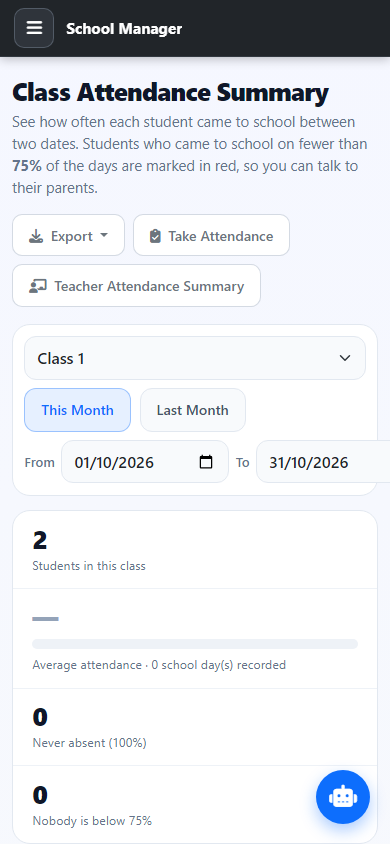
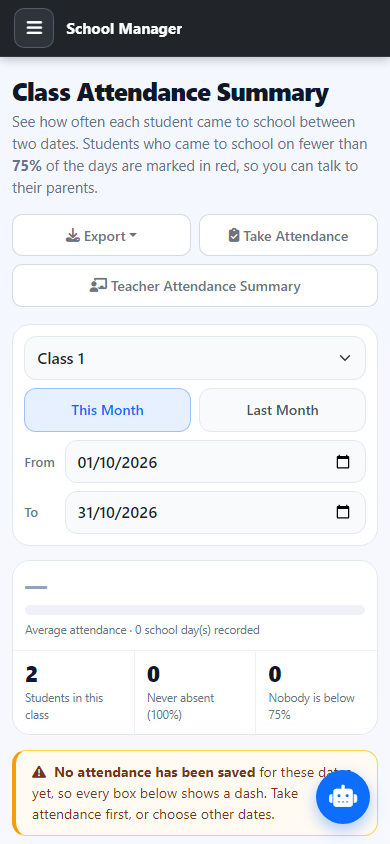
Update application code and fixes

diff --git a/app/templates/attendance_summary.html b/app/templates/attendance_summary.html
@@ -110,15 +110,60 @@
         .as-ribbon .as-stat:nth-child(3) { border-left: 0; border-top: 1px solid #eef2f7; }
         .as-ribbon .as-stat:nth-child(4) { border-top: 1px solid #eef2f7; }
     }
+    /* phones: page chrome (header, filters, summary) stacks and fits the screen */
     @media (max-width: 767.98px) {
-        .as-ribbon { grid-template-columns: 1fr; }
-        .as-stat + .as-stat { border-left: 0 !important; border-top: 1px solid #eef2f7; }
+        /* header buttons: a tidy two-column grid instead of ragged wrapping */
+        .as-tools { width: 100%; display: grid; grid-template-columns: 1fr 1fr; gap: 0.5rem; }
+        .as-tools > .dropdown > .btn, .as-tools > .btn { width: 100%; min-height: 2.6rem; display: inline-flex; align-items: center; justify-content: center; }
+        .as-tools > .btn:last-child:nth-child(odd) { grid-column: 1 / -1; }
         .as-filters .form-select, .as-filters .form-control[type=date] { flex: 1 1 100%; max-width: none; }
-        .as-range { flex: 1 1 100%; }
-        .as-range .form-control { flex: 1; }
+        .as-chip { flex: 1 1 0; justify-content: center; padding: 0 0.6rem; }
+        /* From / To: one line each (two date boxes side by side pushed the whole page sideways) */
+        .as-range { flex: 1 1 100%; display: grid; grid-template-columns: auto minmax(0, 1fr); align-items: center; gap: 0.45rem 0.6rem; }
+        .as-filters .as-range .form-control[type=date] { width: 100%; min-width: 0; }
+        /* 16px text in boxes: stops iPhones zooming the page when a box is tapped */
+        .as-filters .form-select, .as-filters .form-control, .as-search input { font-size: 16px; }
+        #asSearch { text-overflow: ellipsis; }
         .as-toolbar .as-tabs { width: 100%; }
         .as-toolbar .as-tabs button { flex: 1; padding: 0.6rem 0.4rem; }
-        .as-table .as-sticky { min-width: 9.5rem; }
+        /* summary: the average on top, then three small boxes in one line (was four boxes in a tall stack) */
+        .as-ribbon { grid-template-columns: repeat(3, minmax(0, 1fr)); gap: 1px; background: #eef2f7; }
+        .as-stat { background: #fff; padding: 0.7rem 0.75rem; }
+        .as-stat + .as-stat { border-left: 0 !important; border-top: 0; }
+        .as-ribbon .as-stat:nth-child(n) { border-top: 0; }
+        .as-ribbon .as-stat:nth-child(2) { grid-column: 1 / -1; order: -1; }
+        .as-ribbon .as-stat.is-risk { background: #fff5f5; border-left: 4px solid #dc2626 !important; }
+        .as-ribbon .as-stat.is-clear { background: #f3fbf6; border-left: 4px solid #16a34a !important; }
+        .as-num { font-size: 1.4rem; }
+        .as-stat .as-lab { font-size: 0.72rem; }
+        html[dir="rtl"] .as-ribbon .as-stat.is-risk { border-left: 0 !important; border-right: 4px solid #dc2626 !important; }
+        html[dir="rtl"] .as-ribbon .as-stat.is-clear { border-left: 0 !important; border-right: 4px solid #16a34a !important; }
+    }
+    /* phones and tablets: every student becomes one card: name + percentage, the four counts, then a small box for each day
+       (a 30-day table is 2000px wide, so below 1024px it cannot be read by scrolling sideways) */
+    @media screen and (max-width: 1023.98px) {
+        .as-scroll { overflow: visible; }
+        .as-table, .as-table tbody { display: block; width: 100%; }
+        .as-table thead { display: none; }
+        /* 28 equal columns so one row can hold 1 name + percentage, 4 counts (7 columns each) or 7 days (4 columns each) */
+        .as-table tbody tr { display: grid; grid-template-columns: repeat(28, minmax(0, 1fr)); align-items: start; padding: 0.85rem 0.9rem; border-bottom: 1px solid #f1f5f9; background: #fff; }
+        .as-table tbody tr[data-risk="1"] { background: #fff8f8; box-shadow: inset 4px 0 0 #dc2626; }
+        html[dir="rtl"] .as-table tbody tr[data-risk="1"] { box-shadow: inset -4px 0 0 #dc2626; }
+        .as-table tbody tr:hover td { background: transparent; }
+        .as-table tbody td { display: block; padding: 0; border: 0; background: transparent; text-align: left; min-width: 0; }
+        html[dir="rtl"] .as-table tbody td { text-align: right; }
+        .as-table .as-grp { border-left: 0; }
+        .as-table .as-sticky, .as-table tbody tr[data-risk="1"] td.as-sticky { position: static; min-width: 0; grid-column: 1 / 19; box-shadow: none; }
+        .as-table .as-c-rate { grid-column: 19 / 29; justify-self: end; }
+        .as-table .as-c-n { grid-column: span 7; margin-top: 0.65rem; padding-top: 0.5rem; border-top: 1px dashed #e2e8f0; }
+        .as-table .as-c-n::before { content: attr(data-label); display: block; font-size: 0.66rem; font-weight: 700; color: #64748b; text-transform: uppercase; letter-spacing: 0.03em; margin-bottom: 0.1rem; }
+        .as-table .as-c-day { grid-column: span 4; margin-top: 0.5rem; padding: 0 0.12rem; text-align: center; white-space: normal; }
+        .as-table .as-c-day::before { content: attr(data-mon) " " attr(data-day) "\A" attr(data-dow); white-space: pre-line; display: block; font-size: 0.62rem; line-height: 1.15; color: #94a3b8; margin-bottom: 0.15rem; }
+        .as-table .as-c-day .as-day { display: block; min-width: 0; white-space: normal; font-size: 0.7rem; padding: 0.22rem 0.1rem; }
+    }
+    /* wide cards (big phones turned sideways, tablets): 14 day boxes per line instead of 7 */
+    @media screen and (min-width: 576px) and (max-width: 1023.98px) {
+        .as-table .as-c-day { grid-column: span 2; }
     }
     @media print {
         .no-print { display: none !important; }
@@ -262,21 +307,21 @@
                         <div class="as-who-name"><span class="as-roll">{{ row.student.roll_number }}</span>{{ row.student.student_name }}</div>
                         <div class="as-who-sub">{% if whole_school %}{{ class_names.get(row.student.class_id, '—') }}{% if row.student.father_name %} &middot; {% endif %}{% endif %}{{ row.student.father_name or '' }}</div>
                     </td>
-                    <td class="as-grp">
+                    <td class="as-grp as-c-rate">
                         {% if taken %}
                         <span class="as-rate {{ tone }}" {% if tone == 'r' %}title="Attendance below 75% — needs attention"{% endif %}>{% if tone == 'r' %}<i class="fas fa-exclamation-circle me-1"></i>{% endif %}{{ pct }}%</span>
                         {% else %}
                         <span class="as-rate n">—</span>
                         {% endif %}
                     </td>
-                    <td><span class="as-cnt {% if not row.p_count %}zero{% endif %}">{{ row.p_count }}</span></td>
-                    <td><span class="as-cnt {% if not row.a_count %}zero{% endif %}">{{ row.a_count }}</span></td>
-                    <td><span class="as-cnt {% if not row.l_count %}zero{% endif %}">{{ row.l_count }}{% if row.total_late_minutes %}<small>{{ row.total_late_minutes }} min</small>{% endif %}</span></td>
-                    <td><span class="as-cnt {% if not n_leave %}zero{% endif %}">{{ n_leave }}</span></td>
+                    <td class="as-c-n" data-label="Present"><span class="as-cnt {% if not row.p_count %}zero{% endif %}">{{ row.p_count }}</span></td>
+                    <td class="as-c-n" data-label="Absent"><span class="as-cnt {% if not row.a_count %}zero{% endif %}">{{ row.a_count }}</span></td>
+                    <td class="as-c-n" data-label="Late"><span class="as-cnt {% if not row.l_count %}zero{% endif %}">{{ row.l_count }}{% if row.total_late_minutes %}<small>{{ row.total_late_minutes }} min</small>{% endif %}</span></td>
+                    <td class="as-c-n" data-label="Leave"><span class="as-cnt {% if not n_leave %}zero{% endif %}">{{ n_leave }}</span></td>
                     {% for d in dates_list %}
                     {% set status = row.daily_status.get(d, '—') %}
                     {% set late_minutes = row.daily_late_minutes.get(d) %}
-                    <td class="text-nowrap {% if loop.first %}as-grp{% endif %}">
+                    <td class="text-nowrap as-c-day {% if loop.first %}as-grp{% endif %}" data-day="{{ d.day }}" data-dow="{{ d.strftime('%a') }}"{% if loop.first or dates_list[loop.index0 - 1].month != d.month %} data-mon="{{ d.strftime('%b') }}"{% endif %}>
                         {% if status == 'Late' and late_minutes is not none %}
                         <span class="as-day l" title="Late arrival: {{ late_minutes }} minutes">L · {{ late_minutes }}m</span>
                         {% elif status == 'Present' %}<span class="as-day p" title="Present">P</span>

diff --git a/tests/test_attendance_summary_mobile.py b/tests/test_attendance_summary_mobile.py
@@ -1,0 +1,105 @@
+"""Attendance Summary on phones and tablets.
+
+Same HTML for every screen size: a 30-day register is ~2000px wide, so below
+1024px every student becomes one card (name + percentage, the four counts, one
+small box per day). These tests check the pieces that layout needs and that no
+number, box or button went missing."""
+
+from datetime import date
+
+from app.database import db
+from app.models import AttendanceModel, SchoolSettings
+
+FRIDAY = date(2026, 10, 30)
+MONDAY = date(2026, 11, 2)      # the next month: the card must say which month the boxes belong to
+
+
+def _school():
+    settings = SchoolSettings.query.first() or SchoolSettings()
+    db.session.add(settings)
+    settings.school_start_time = '08:30'
+    settings.attendance_grace_minutes = 0
+    settings.weekend_off = True
+    db.session.commit()
+
+
+def _mark(student_id, class_id, day, status, minutes=None):
+    db.session.add(AttendanceModel(date=day, target_type='student', target_id=student_id,
+                                   class_id=class_id, status=status, late_minutes=minutes))
+
+
+def _body(client, seed, start=FRIDAY, end=MONDAY):
+    reply = client.get('/attendance/summary?class_id=%d&start_date=%s&end_date=%s' % (seed['class_id'], start, end))
+    assert reply.status_code == 200
+    return reply.get_data(as_text=True)
+
+
+def _css(body):
+    # base.html has its own <style>; the page's styles are the block that holds .as-head
+    blocks = [part.split('</style>', 1)[0] for part in body.split('<style>')[1:]]
+    return [block for block in blocks if '.as-head' in block][0]
+
+
+def _marked(app, seed):
+    with app.app_context():
+        _school()
+        sid = seed['student_id']
+        _mark(sid, seed['class_id'], FRIDAY, 'Present')
+        _mark(sid, seed['class_id'], MONDAY, 'Late', 17)
+        db.session.commit()
+
+
+def test_student_rows_are_cards_below_1024px(admin_client, app, seed):
+    _marked(app, seed)
+    css = _css(_body(admin_client, seed))
+    marker = '@media screen and (max-width: 1023.98px)'
+    assert marker in css
+    cards = css.split(marker, 1)[1].split('@media', 1)[0]
+    for needle in ('.as-scroll { overflow: visible; }', '.as-table thead { display: none; }',
+                   'grid-template-columns: repeat(28, minmax(0, 1fr))',
+                   '.as-c-rate { grid-column: 19 / 29; justify-self: end; }',
+                   '.as-c-n { grid-column: span 7;', '.as-c-day { grid-column: span 4;',
+                   'content: attr(data-label)', 'content: attr(data-mon) " " attr(data-day)'):
+        assert needle in cards, needle
+    assert '@media screen and (min-width: 576px) and (max-width: 1023.98px)' in css      # 14 boxes per line on a tablet
+    assert 'position: static; min-width: 0; grid-column: 1 / 19;' in cards                 # no sticky name column in a card
+    assert 'html[dir="rtl"] .as-table tbody tr[data-risk="1"]' in cards                    # Urdu: red bar on the other side
+
+
+def test_phone_header_filters_and_summary_fit_the_screen(admin_client, app, seed):
+    _marked(app, seed)
+    css = _css(_body(admin_client, seed))
+    phone = css.split('@media (max-width: 767.98px) {', 1)[1].split('@media screen', 1)[0]
+    for needle in ('.as-tools { width: 100%; display: grid; grid-template-columns: 1fr 1fr;',
+                   '.as-range { flex: 1 1 100%; display: grid;',          # From / To one line each (they pushed the page sideways)
+                   '.as-filters .as-range .form-control[type=date] { width: 100%; min-width: 0; }',
+                   'font-size: 16px',                                      # no iPhone zoom when a box is tapped
+                   '.as-ribbon { grid-template-columns: repeat(3, minmax(0, 1fr));',
+                   '.as-ribbon .as-stat:nth-child(2) { grid-column: 1 / -1; order: -1; }'):
+        assert needle in phone, needle
+
+
+def test_every_cell_has_its_phone_label_and_every_day_its_date(admin_client, app, seed):
+    _marked(app, seed)
+    body = _body(admin_client, seed)
+    row = body.split('<tbody>', 1)[1].split('</tr>', 1)[0]
+    assert 'as-grp as-c-rate' in row
+    for label in ('Present', 'Absent', 'Late', 'Leave'):
+        assert 'class="as-c-n" data-label="%s"' % label in row
+    assert 'data-day="30" data-dow="Fri" data-mon="Oct"' in row          # first box names its month
+    assert 'data-day="2" data-dow="Mon" data-mon="Nov"' in row           # and so does the first box of the next month
+    assert row.count('class="text-nowrap as-c-day') == row.count('data-dow=')
+
+
+def test_numbers_boxes_and_filters_are_unchanged(admin_client, app, seed):
+    _marked(app, seed)
+    body = _body(admin_client, seed)
+    head = body[body.index('<thead>'):body.index('</thead>')]
+    assert head.index('Attendance') < head.index('Present') < head.index('Absent') < head.index('Leave') < head.index('<b>30</b>')
+    for needle in ('id="asSearch"', "setMode('risk')", "setMode('perfect')", "setMode('all')", 'id="asVisible"',
+                   'data-risk=', 'data-perfect=', 'data-search="ali khan', 'How to read the boxes:',
+                   'L · 17m', '17 min', 'class="as-day p"', 'name="start_date"', 'name="end_date"', 'name="class_id"',
+                   '/attendance/summary/export/pdf', '/attendance/summary/export/excel',
+                   '/attendance/summary/export/csv', 'This Month', 'Last Month', 'Take Attendance',
+                   'Teacher Attendance Summary'):
+        assert needle in body, needle

diff --git a/tests/test_sidebar_redesign.py b/tests/test_sidebar_redesign.py
@@ -90,7 +90,7 @@ def test_exactly_one_link_is_highlighted_on_each_page(admin_client):
         '/teachers': 'Teachers',
         '/classes': 'Classes &amp; Subjects',
         '/attendance/students': 'Daily Attendance',
-        '/attendance/summary': 'Attendance Summary',
+        '/attendance/summary?class_id=all': 'Attendance Summary',   # without a class the page redirects to the first class
         '/tests': 'Testing &amp; Marks Hub',
         '/reports/hub': 'Analytics &amp; Exports',
         '/documents': 'ID Cards &amp; Certificates',

diff --git a/CHANGELOG.md b/CHANGELOG.md
@@ -49,6 +49,8 @@ release, rename `[Unreleased]` to the new version and date.
 ## [X.Y.Z] - YYYY-MM-DD
 
 ### Added
+- Attendance Summary — **phone and tablet layout**: below 1024 px wide every student is one **card** instead of a 30-day table you had to swipe sideways. The card shows the name and the percentage on top (a red bar when the student is below 75%), then *Present / Absent / Late / Leave* (with the late minutes), then one small box for every school day with its date. The summary at the top is shorter on a phone: the average first, then *Students*, *Never absent* and *Need attention* side by side. The header buttons sit in a neat grid, the text boxes are big enough that an iPhone does not zoom in, and *This Month* / *Last Month* share the line. On a computer the table is unchanged. Search, *All students / Need attention / Never absent*, Export and the colour legend work as before.
+- Tests — new `tests/test_attendance_summary_mobile.py` covers the phone and tablet layout of Attendance Summary (cards below 1024 px, phone header / filters / summary, a label on every count and a date on every day box, the month shown when it changes) and that every number, box, filter and export link is still there.
 - Teacher Attendance — **phone and tablet layout**, the same as Student Attendance: on a phone or a tablet every teacher is one **card** (ID and name on top, the four big *Present / Absent / Late / Leave* buttons, then the check-in time with a bigger clock button). The header buttons (*Export*, *Monthly Summary*, *Student Attendance*) sit in a neat grid, the *teachers: attendance not marked yet* box skips the long list of names on a small screen (the count and the *Show only these teachers* button stay), and the text boxes are big enough that an iPhone does not zoom in when you tap one. Nothing was removed.
 - QR Scans tab — **phone layout**: each scan is now a clean card (roll no and name on top, the class under the name, then the *Arrived / Late / Not arrived* tag on the left and the scan time on the right). The *Everyone / Not arrived / Late / Arrived on time* buttons and the *Update by itself* switch are bigger to tap, the settings boxes are big enough that an iPhone does not zoom in, the long *Find a student…* hint ends with “…” instead of being cut in the middle of a word, and the **connection code picture shrinks to fit a small phone** (before, it could be cut off). The computer view is unchanged.
 - Tests — new `tests/test_teacher_attendance_mobile.py` and `tests/test_qr_attendance_mobile.py` cover the small-screen layout of the Teacher Attendance sheet and the QR Scans tab (cards up to 1023 px, Save bar that can stay on screen, room for the assistant button, header buttons, scan cards, 16 px boxes, shrinking connection code) and that every old button, box and field is still there.
@@ -114,6 +116,8 @@ release, rename `[Unreleased]` to the new version and date.
 - Module — behaviour change description
 
 ### Fixed
+- Attendance Summary — on a phone the **whole page could be pushed sideways** because the *From* and *To* date boxes did not fit next to each other. They now sit one under the other. Before, the student name also took half of the screen while the percentage, the counts and all the day boxes were hidden to the right.
+- Tests — the sidebar test opened *Attendance Summary* without a class, but that page (on purpose) jumps to the first class, so the test failed with a redirect. It now opens the page for *All School Students*.
 - Teacher Attendance — on a **tablet or a narrow window (about 768 to 1000 px wide)** the *Check-in time* column and the *Leave* button were **cut off and could not be reached**. These screens now use the same easy cards as a phone.
 - Teacher Attendance — the **Save Teacher Attendance bar did not stay on screen** while you scrolled a long list (you had to scroll to the very end to find it). It now stays at the bottom of the screen, and it leaves room so the round assistant button no longer covers the Save button.
 - Student Attendance — on a **tablet or a narrow window (about 768 to 1000 px wide)** the *Check-in time* column and the *Leave* button were **cut off and could not be reached**. These screens now use the same easy cards as a phone.
